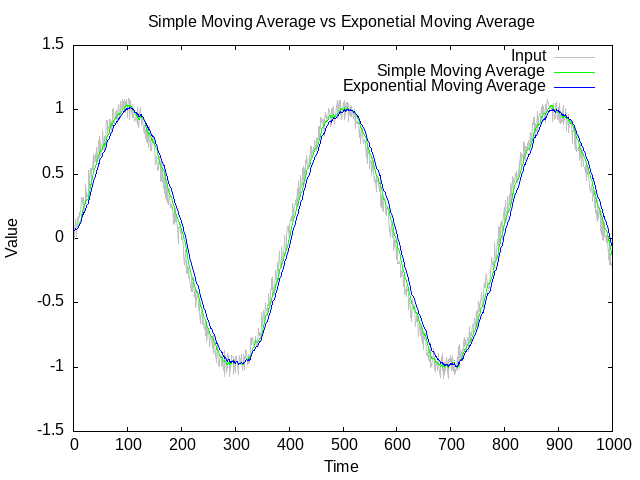
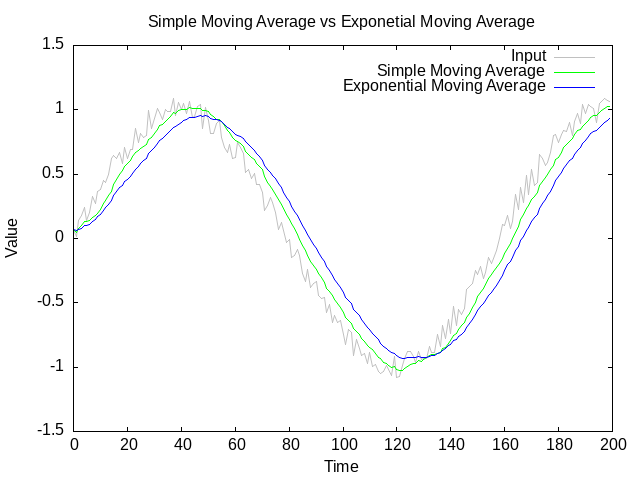
v0.2.0

diff --git a/sensor_smoother.c b/sensor_smoother.c
@@ -31,32 +31,26 @@
 float sensor_smoother_simple_moving_average(sensor_smoother_simple_moving_average_t *state, float input_value)
 {
     // Ref: https://en.wikipedia.org/wiki/Moving_average
-    // If this is the first time we're calculating the average, initialize the buffer
-    if (!state->init)
-    {
-        // Initialize all values in the buffer to the input value
-        for (int i = 0; i < SENSOR_SMOOTHER_SIMPLE_MOVING_AVERAGE_BUFFER_COUNT; i++)
-        {
-            state->buffer[i] = input_value;
-        }
-
-        // Mark that the buffer has been initialized
-        state->init = true;
-    }
 
     // Add the new value to buffer
     state->buffer[state->write_index] = input_value;
 
     // Move to the next position in the buffer, wrapping around if necessary
-    state->write_index = (state->write_index + 1) % SENSOR_SMOOTHER_SIMPLE_MOVING_AVERAGE_BUFFER_COUNT;
+    state->write_index = (state->write_index + 1) % state->buffer_size;
+
+    // Check if buffer is not full and increment if so
+    if (state->buffer_count < state->buffer_size)
+    {
+        state->buffer_count = state->buffer_count + 1;
+    }
 
     // Calculate the average of all values in the buffer
     float avg = 0.0f;
-    for (int i = 0; i < SENSOR_SMOOTHER_SIMPLE_MOVING_AVERAGE_BUFFER_COUNT; i++)
+    for (int i = 0; i < state->buffer_count; i++)
     {
         avg += state->buffer[i];
     }
-    avg = avg / SENSOR_SMOOTHER_SIMPLE_MOVING_AVERAGE_BUFFER_COUNT;
+    avg = avg / state->buffer_count;
 
     // Return the calculated simple average value
     return avg;

diff --git a/test.c b/test.c
@@ -31,16 +31,16 @@
 #include <stdlib.h>
 #include "sensor_smoother.h"
 
-#define NUM_STEPS 1000
+#define NUM_STEPS 200
 
 int main() {
-    sensor_smoother_simple_moving_average_t simple_state;
-    sensor_smoother_exponential_moving_average_t exponential_state;
+    sensor_smoother_simple_moving_average_t simple_state = {0};
+    float buffer[SENSOR_SMOOTHER_SIMPLE_MOVING_AVERAGE_BUFFER_COUNT] = {0};
+    simple_state.buffer = buffer;
+    simple_state.buffer_size = SENSOR_SMOOTHER_SIMPLE_MOVING_AVERAGE_BUFFER_COUNT;
 
-    // Set alpha value for exponential moving average (smoothing factor)
+    sensor_smoother_exponential_moving_average_t exponential_state = {0};
     exponential_state.alpha = 0.1;
-
-    double input_values[NUM_STEPS] = {0};
 
     FILE *file_csv = fopen("test.csv", "w+");
 
@@ -52,8 +52,9 @@ int main() {
     // Write header row to CSV file
     fprintf(file_csv, "Time (ms),Input,SMA,EMA\n");
 
+    double input_values[NUM_STEPS] = {0};
     for (int i = 0; i < NUM_STEPS; i++) {
-        double sine_value = sin((double)i / 20.0 / 3.14);
+        double sine_value = sin((double)(i / 8.0) / 3.14);
         double noise = ((double)rand() / RAND_MAX * 0.2) - 0.1;
         input_values[i] = sine_value + noise;
 

diff --git a/sensor_smoother.h b/sensor_smoother.h
@@ -33,9 +33,10 @@
 // Structure to hold the buffer for simple average calculation
 typedef struct
 {
-    bool init; // Flag to indicate if the buffer has been initialized
     unsigned int write_index; // Index of the next position in the buffer to write to
-    float buffer[SENSOR_SMOOTHER_SIMPLE_MOVING_AVERAGE_BUFFER_COUNT]; // Buffer to store values for simple average calculation
+    unsigned int buffer_count; // Number of values stored in the buffer
+    unsigned int buffer_size; // Max number of values stored in the buffer
+    float *buffer; // Buffer to store values for simple average calculation
 } sensor_smoother_simple_moving_average_t;
 
 // Structure to hold the state for exponential moving average calculation

diff --git a/README.md b/README.md
@@ -1,6 +1,6 @@
 # sensor_smoother.c
 
-<versionBadge>![Version 0.1.0](https://img.shields.io/badge/version-0.0.2-blue.svg)</versionBadge>
+<versionBadge>![Version 0.2.0](https://img.shields.io/badge/version-0.2.0-blue.svg)</versionBadge>
 [![License: MIT](https://img.shields.io/badge/License-MIT-yellow.svg)](https://opensource.org/licenses/MIT)
 [![C](https://img.shields.io/badge/Language-C-blue.svg)](https://en.wikipedia.org/wiki/C_(programming_language))
 [![CI/CD Status Badge](https://github.com/mofosyne/sensor_smoother.c/actions/workflows/ci.yml/badge.svg)](https://github.com/mofosyne/sensor_smoother.c/actions)
@@ -10,4 +10,36 @@
 This is a small collection of sensor smoothing functions that may be
 useful for embedded devices etc...
 
-PR welcomed
+Pull Requests and Other Contributions Are Welcomed
+
+## Design Considerations
+
+* No checks for settings via initialiser or parameter checks
+    - Keeps compexity lower
+* Simple moving average requires users to supply their own buffer. 
+    - This allows for custom sizes between multiple different sensors.
+
+## Usage
+
+Below are some examples code for simple moving average and exponential
+moving average smoothers:
+
+```c
+sensor_smoother_simple_moving_average_t sma_state = {0};
+sma_state.buffer = buffer;
+sma_state.buffer_size = sizeof(buffer) / sizeof(buffer[0]);
+float sma = sensor_smoother_simple_moving_average(&sma_state, input);
+```
+
+The exponential moving average function below on the other hand requires
+that you set an alpha smoothing factor that is between 0.0 to 1.0 for
+how responsive the output is to the input values. Set alpha nearer to
+zero for slower response while setting alpha to 1.0 will get exactly
+the input value. You will want to pick a value inbetween but closer to
+zero to smooth the input signal out.
+
+```c
+sensor_smoother_exponential_moving_average_t ema_state = {0};
+ema_state.alpha = 0.1; ///<  Smoothing factor (0 <= alpha < 1)
+float ema = sensor_smoother_exponential_moving_average(&ema_state, input);
+```
